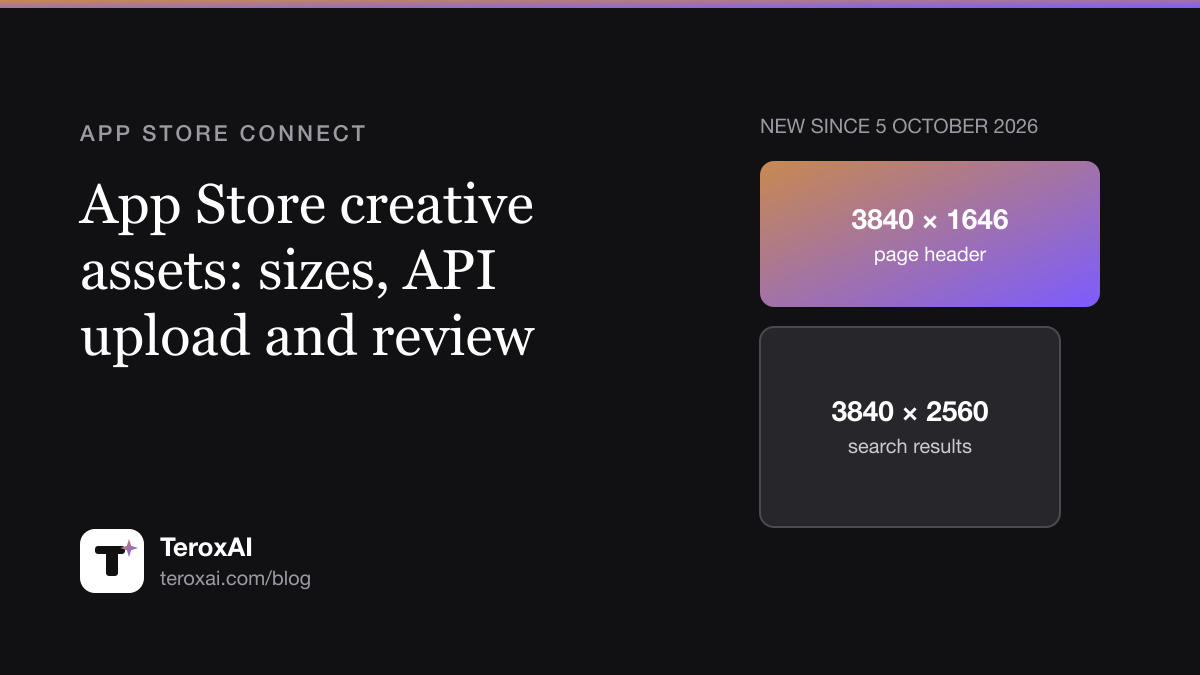
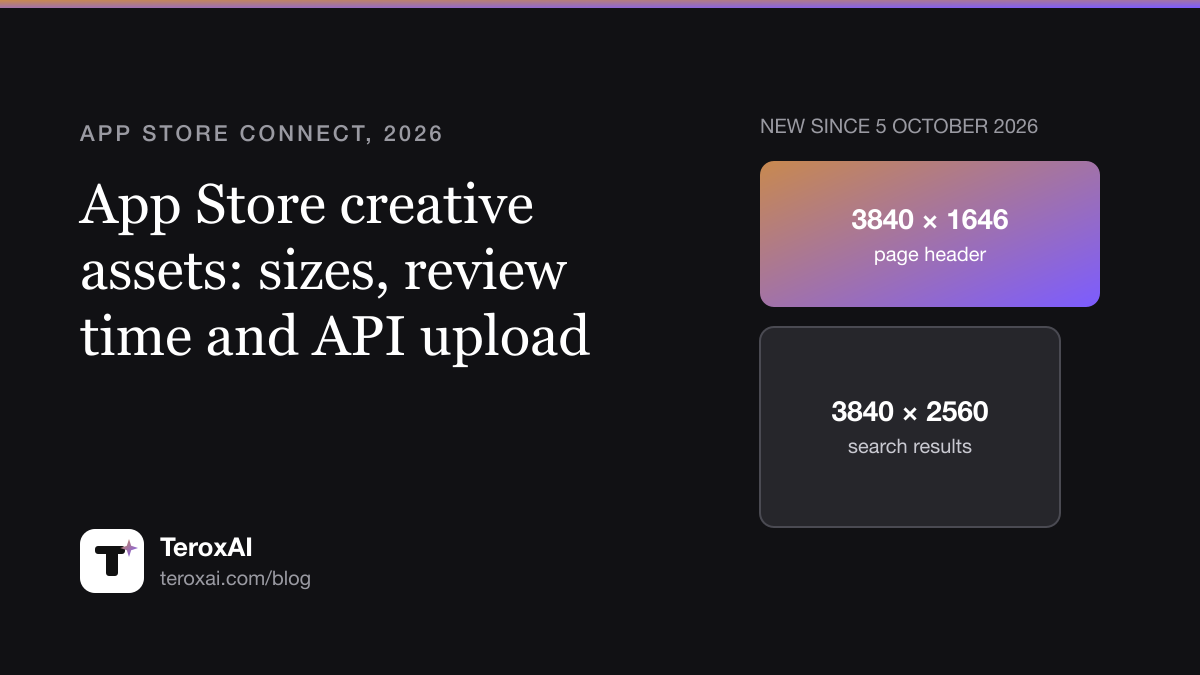
Creative assets article: title with review time and year, cover to match

Changed region(s): [[0.0617, 0.4667, 0.4933, 0.56], [0.3392, 0.3733, 0.4625, 0.4356], [0.3083, 0.1867, 0.37, 0.2178]]

diff --git a/src/content/blog/de/app-store-creative-assets-groessen-api.md b/src/content/blog/de/app-store-creative-assets-groessen-api.md
@@ -1,5 +1,5 @@
 ---
-title: 'Creative Assets im App Store: Größen, API-Upload und Review'
+title: 'Creative Assets im App Store: Größen, Review-Dauer und API (2026)'
 description: 'Das neue Kopfbild der Produktseite und das Bild für die Suche: genaue Größen, Verbote, die zehn API-Aufrufe für den Upload und was noch offen ist.'
 date: 2026-10-07
 updated: 2026-10-09

diff --git a/src/content/blog/en/app-store-creative-assets-sizes-api.md b/src/content/blog/en/app-store-creative-assets-sizes-api.md
@@ -1,5 +1,5 @@
 ---
-title: 'App Store creative assets: sizes, API upload and review'
+title: 'App Store creative assets: sizes, review time and API upload (2026)'
 description: 'The new product page header and search results asset: exact sizes, what is banned, the ten API calls to upload them, and what we do not know yet.'
 date: 2026-10-07
 updated: 2026-10-09
